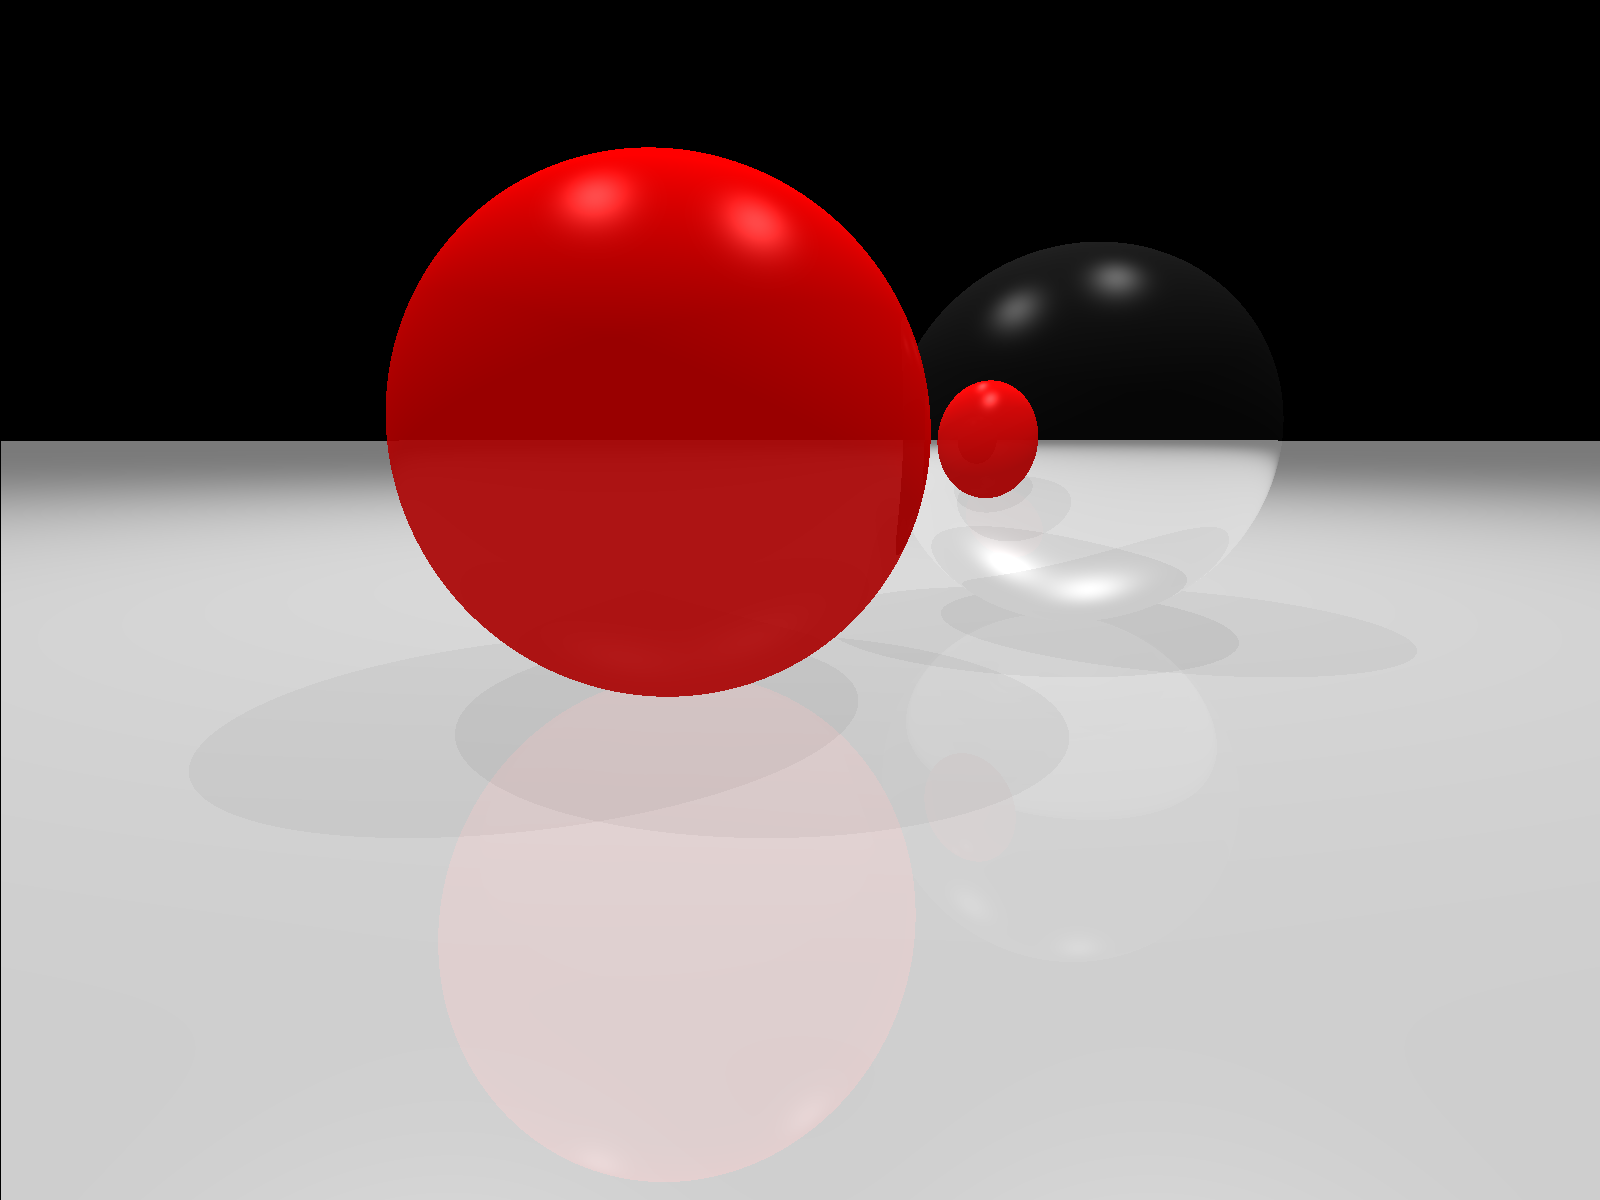
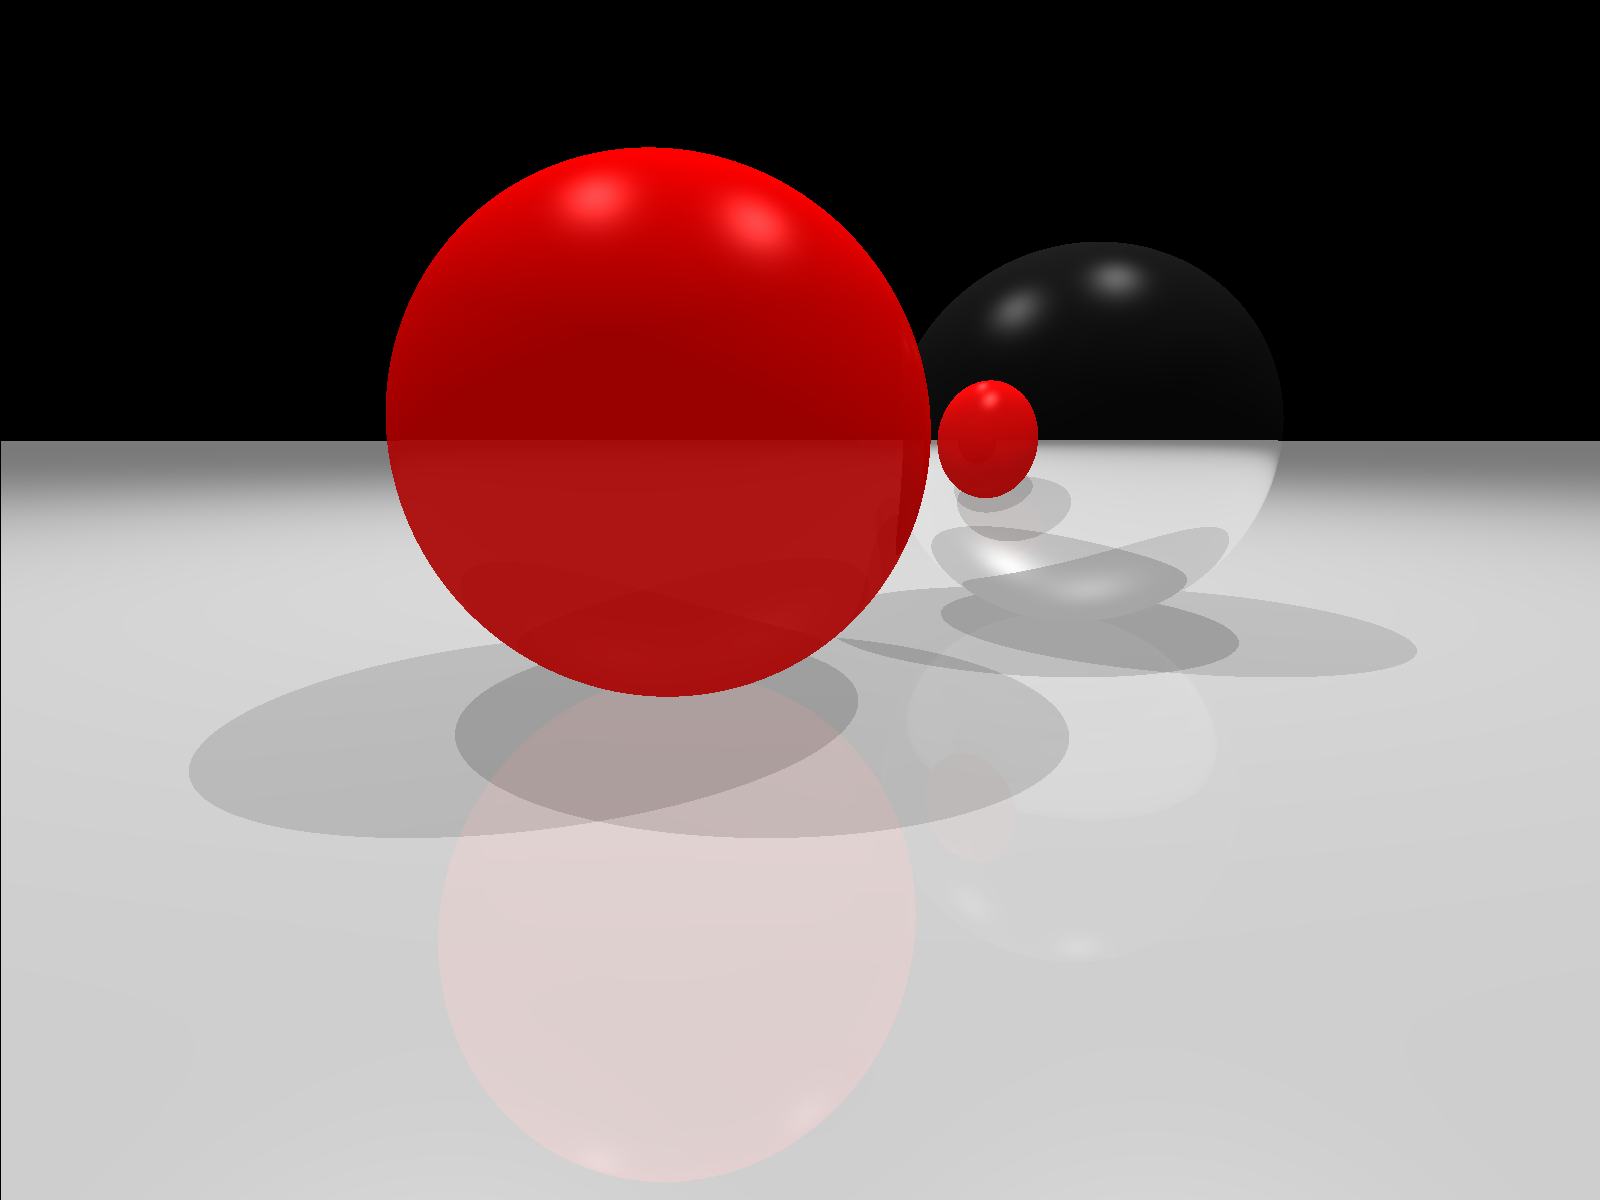
Make shadows more realistic and get drawScene() working again

Changed region(s): [[0.2812, 0.4008, 0.7812, 0.6783]]

diff --git a/clifftracefast.py b/clifftracefast.py
@@ -156,21 +156,6 @@ class Light:
         self.colour = colour
 
 
-    def getjitLight(self):
-        return jitLight(self.position.value, self.colour)
-
-
-spec = [
-    ('position', double[:]),
-    ('colour', double[:]),
-]
-@jitclass(spec)
-class jitLight:
-    def __init__(self, position, colour):
-        self.position = position
-        self.colour = colour
-
-
 def drawScene():
     Ptr = Ptl + 2*e1*xmax
     Pbl = Ptl - 2*e3*ymax
@@ -213,7 +198,7 @@ def drawScene():
             sc.add_sphere(objects.object, objects.getColour())
         else:
             sc.add_plane(objects.object, objects.getColour())
-    for light in lights:
+    for light in Ls:
         l = light.position
         sc.add_euc_point(up(l), yellow)
         sc.add_sphere(new_sphere(l + e1, l+e2, l+e3, l-e1), yellow)
@@ -374,7 +359,7 @@ def trace_ray(ray, scene_type_array, scene_array, origin, depth):
         if intersects(toL, np.concatenate((scene_type_array[:index], scene_type_array[index+1:])),
                       np.concatenate((scene_array[:index, :], scene_array[index + 1:, :]), axis=0),
                       pX)[1] is not None:
-            Satt *= 0.8
+            Satt *= 0.4
 
         if scene_type_array[int(index)]:
             reflected = -1. * val_reflect_in_sphere(ray, obj[:32], pX)
@@ -443,13 +428,16 @@ def render(line_array):
 
 if __name__ == "__main__":
     # Light position and color.
+    Ls =[]
     lights = np.empty((1, 32+3), dtype=np.double)
     L = -20.*e1 + 60.*e3 + 4.*e2
     colour_light = np.ones(3)
     light = np.append(L.value, colour_light)
+    Ls.append(Light(L, colour_light))
     lights[0, :] = light
     L = 20.*e1 + 60.*e3 + 4.*e2
     lights = np.append(lights, np.append(L.value, colour_light).reshape(1, 35), axis = 0)
+    Ls.append(Light(L, colour_light))
 
     # Shading options
     a1 = 0.02
@@ -503,7 +491,8 @@ if __name__ == "__main__":
     Ptl = f*1.0*e2 - e1*xmax + e3*ymax
     Ptl_val = Ptl.value
 
-    #drawScene()
+    drawScene()
+
     print("Start Ray generation")
     start_time = time.time()
     ray_array = generate_ray_array()
